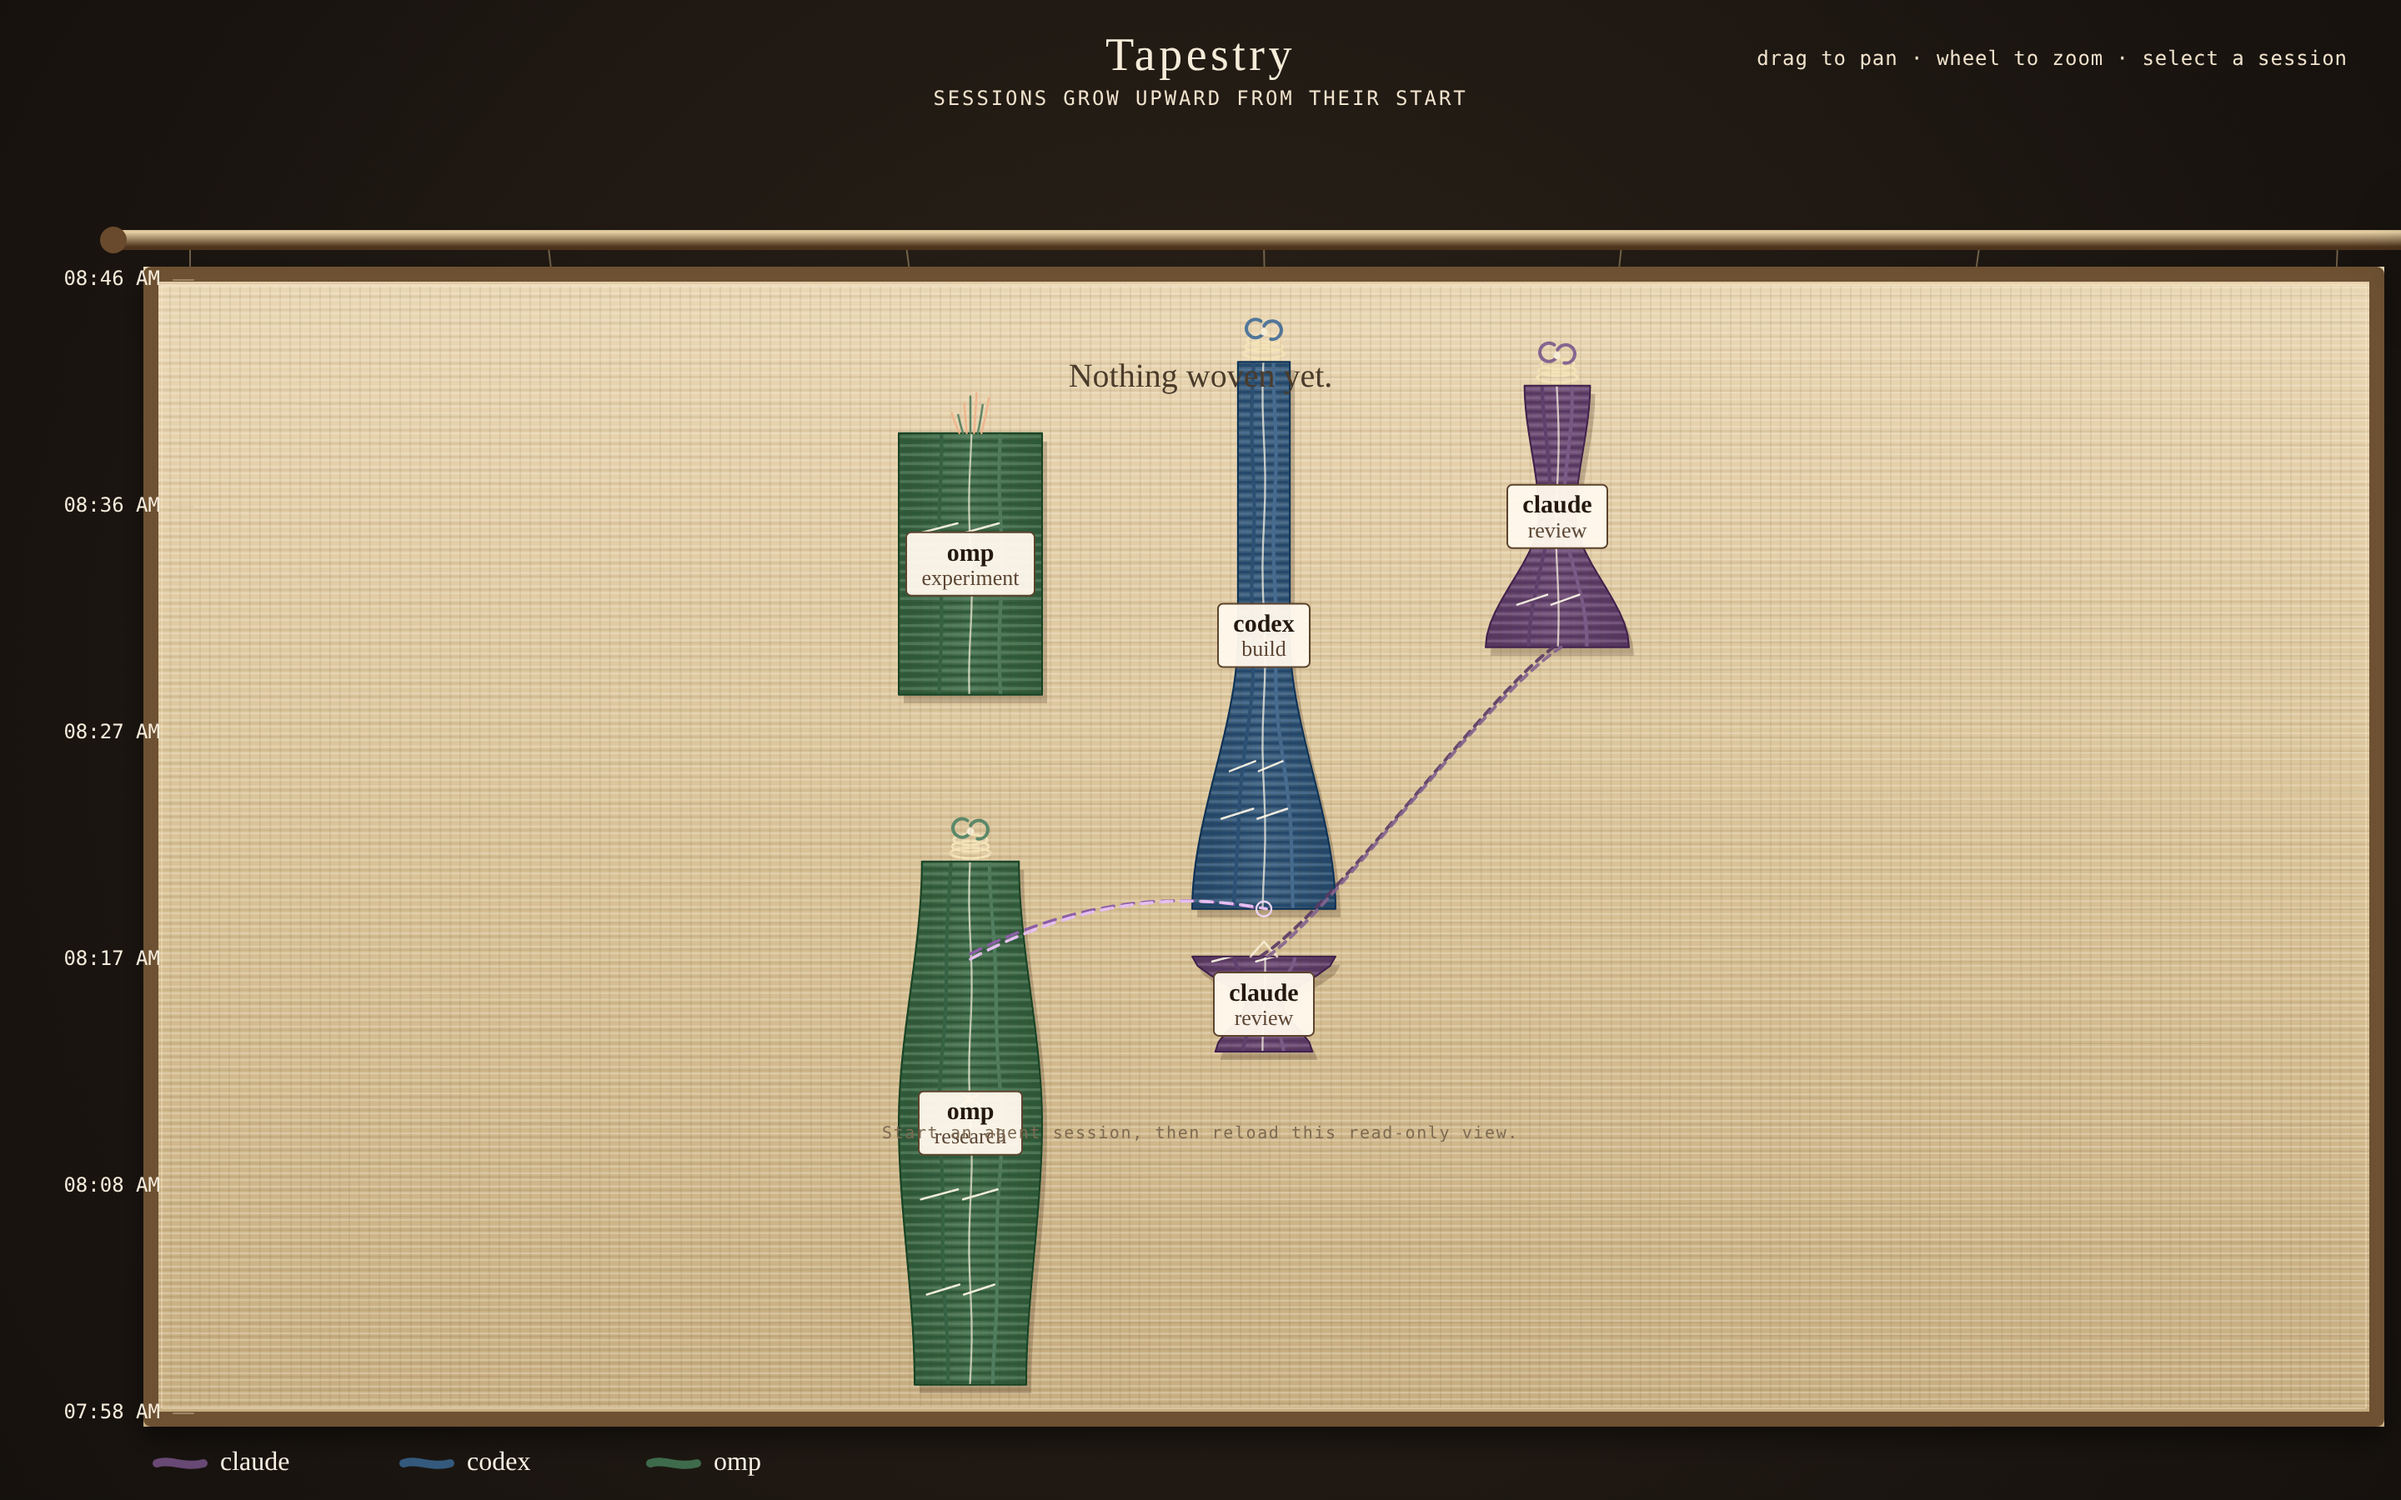
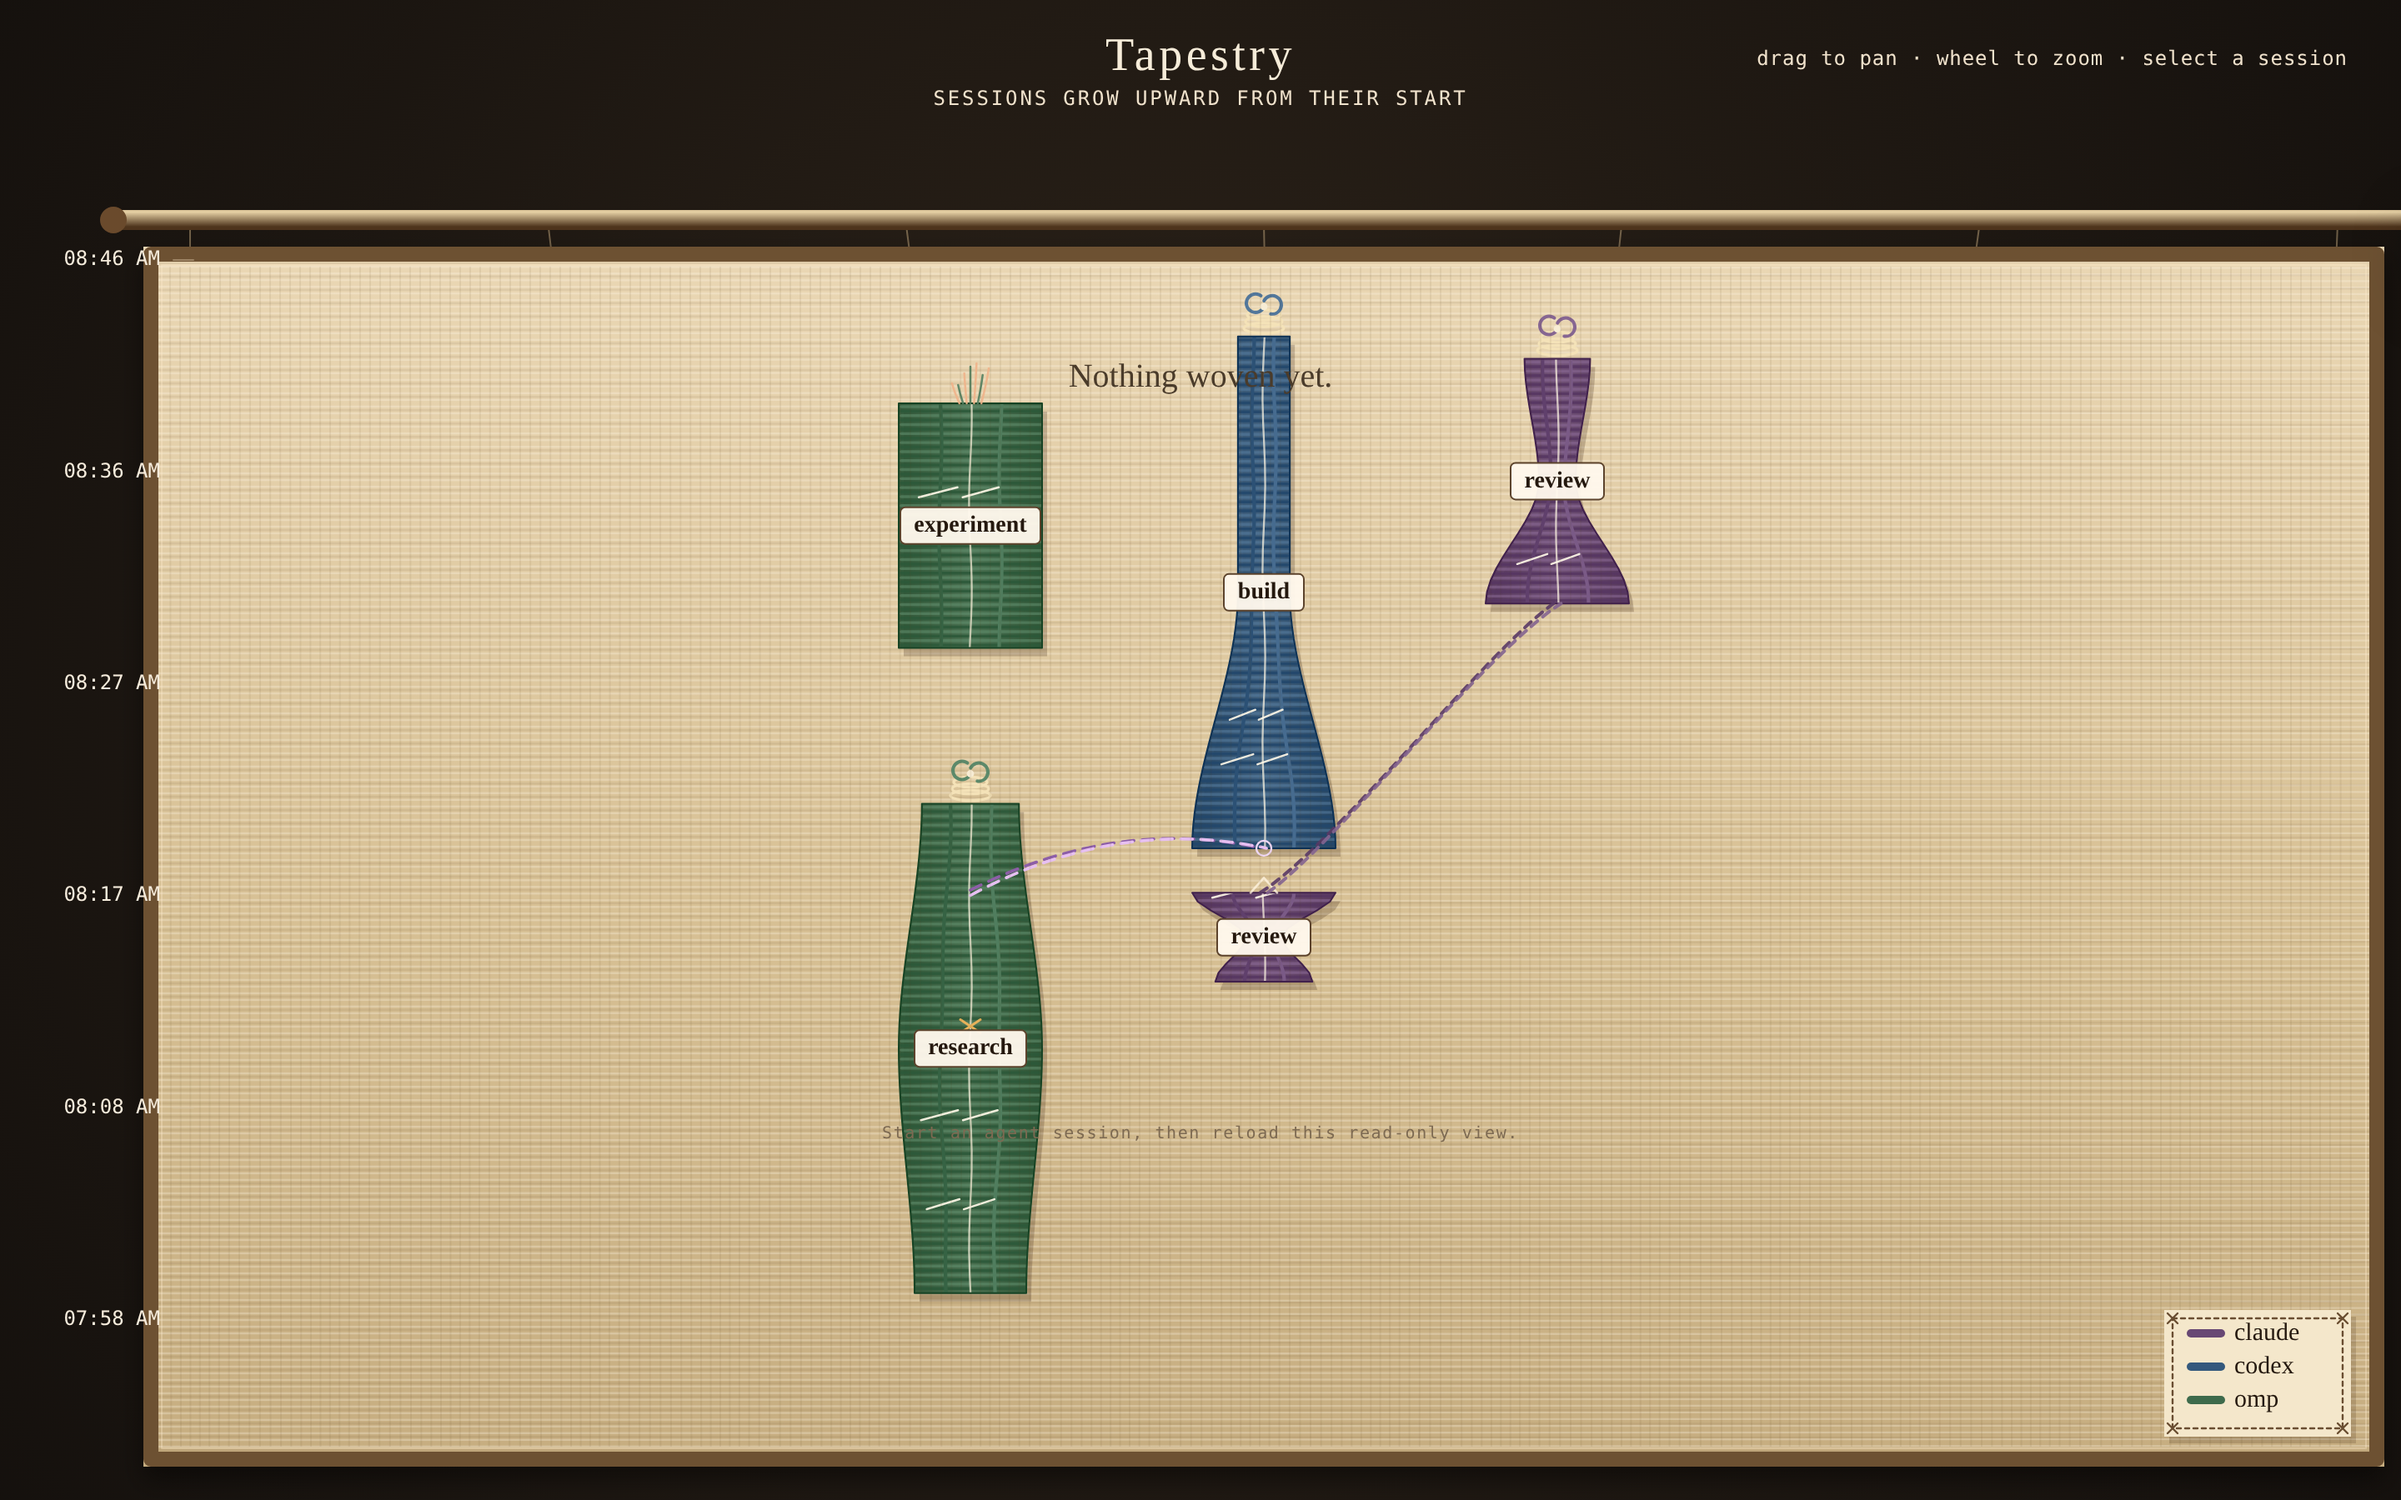
Stitch the cloth in, and sew the dye key on
Dress the warp, then throw the weft upward on load. The actor key is a
stitched patch in the lower right, and session cards no longer repeat it.

diff --git a/tapestry/weave.js b/tapestry/weave.js
@@ -3,7 +3,7 @@ const ctx = canvas.getContext("2d");
 const panel = document.querySelector("#panel");
 const empty = document.querySelector("#empty");
 const DYES = ["#3e6b4c", "#34597d", "#8d4630", "#684874", "#9a7430", "#2e5c58", "#7a3d4a"];
-const state = { spec: null, sessions: [], scale: 1, panX: 0, panY: 0, drag: null, selected: null, layout: [] };
+const state = { spec: null, sessions: [], scale: 1, panX: 0, panY: 0, drag: null, selected: null, layout: [], reveal: 1, needle: null };
 
 const hash = (value) => {
   let h = 2166136261;
@@ -50,8 +50,8 @@ function fit() {
 }
 
 function field() {
-  const top = 168;
-  const bottom = 52;
+  const top = 156;
+  const bottom = 108;
   return {
     left: 132,
     right: 56,
@@ -121,7 +121,7 @@ function trace(points) {
 }
 
 function clothRect(frame) {
-  return { x: frame.left - 46, y: frame.top - 8, w: frame.width + 92, h: frame.height + 16 };
+  return { x: frame.left - 46, y: frame.top - 8, w: frame.width + 92, h: frame.height + 96 };
 }
 
 function roundRect(x, y, w, h, r) {
@@ -209,9 +209,10 @@ function drawHanging(rect) {
 }
 
 function drawWarp(rect) {
+  const grown = state.reveal >= 1 ? 1 : Math.min(1, state.reveal / 0.18);
   ctx.save();
   ctx.beginPath();
-  ctx.rect(rect.x + 12, rect.y + 12, rect.w - 24, rect.h - 24);
+  ctx.rect(rect.x + 12, rect.y + 12, rect.w - 24, (rect.h - 24) * grown);
   ctx.clip();
   ctx.lineWidth = 1;
   for (let x = rect.x + 16; x < rect.x + rect.w - 14; x += 6) {
@@ -239,6 +240,16 @@ function sessionMarks(session) {
 function drawUpright(session, frame) {
   const p = position(session, frame);
   const widths = widthsOf(session);
+  const top = Math.min(p.y0, p.y1);
+  const bot = Math.max(p.y0, p.y1);
+  if (state.needle != null && state.needle > bot + 1) return;
+  const partial = state.needle != null && state.needle > top;
+  ctx.save();
+  if (partial) {
+    ctx.beginPath();
+    ctx.rect(0, state.needle, innerWidth, Math.max(0, innerHeight - state.needle));
+    ctx.clip();
+  }
   const points = silhouette(p.x, p.y0, p.y1, widths);
   const color = dye(session.actor);
   const selected = state.selected?.id === session.id;
@@ -253,8 +264,6 @@ function drawUpright(session, frame) {
   ctx.save();
   trace(points);
   ctx.clip();
-  const top = Math.min(p.y0, p.y1);
-  const bot = Math.max(p.y0, p.y1);
   const ground = ctx.createLinearGradient(p.x - 40, 0, p.x + 40, 0);
   ground.addColorStop(0, shade(color, -28));
   ground.addColorStop(0.5, color);
@@ -330,8 +339,9 @@ function drawUpright(session, frame) {
   ctx.lineWidth = selected ? 2.2 : 1;
   ctx.stroke();
 
-  drawCap(session, p, color);
+  if (!partial) drawCap(session, p, color);
   state.layout.push({ s: session, p, widths, width: Math.max(...widths) });
+  ctx.restore();
 }
 
 function drawCap(session, p, color) {
@@ -430,17 +440,15 @@ function drawNameplates() {
   ctx.save();
   ctx.textAlign = "center";
   ctx.textBaseline = "middle";
+  ctx.font = "600 14px Palatino, Georgia, serif";
   for (const row of state.layout) {
-    const actor = String(row.s.actor);
+    const mid = (row.p.y0 + row.p.y1) / 2;
+    if (!woven(mid)) continue;
     const sid = String(row.s.sessionId);
-    ctx.font = "600 15px Palatino, Georgia, serif";
-    const actorW = ctx.measureText(actor).width;
-    ctx.font = "13px Palatino, Georgia, serif";
-    const sidW = ctx.measureText(sid).width;
-    const w = Math.ceil(Math.max(actorW, sidW) + 18);
-    const h = 38;
+    const w = Math.ceil(ctx.measureText(sid).width + 16);
+    const h = 22;
     const x = row.p.x - w / 2;
-    const y = (row.p.y0 + row.p.y1) / 2 - h / 2;
+    const y = mid - h / 2;
     ctx.fillStyle = "rgba(255, 248, 236, 0.96)";
     ctx.strokeStyle = "#5c432c";
     ctx.lineWidth = 1;
@@ -448,13 +456,22 @@ function drawNameplates() {
     ctx.fill();
     ctx.stroke();
     ctx.fillStyle = "#24180e";
-    ctx.font = "600 15px Palatino, Georgia, serif";
-    ctx.fillText(actor, row.p.x, y + 13);
-    ctx.fillStyle = "#5c4634";
-    ctx.font = "13px Palatino, Georgia, serif";
-    ctx.fillText(sid, row.p.x, y + 28);
+    ctx.fillText(sid, row.p.x, y + h / 2);
   }
   ctx.restore();
+}
+
+function woven(y) {
+  return state.needle == null || state.needle <= y + 0.5;
+}
+
+function stitchY(frame) {
+  if (state.reveal >= 1 || !state.domain) return null;
+  const weave = Math.max(0, (state.reveal - 0.18) / 0.82);
+  const { lo, hi } = state.domain;
+  const span = hi - lo || 1;
+  const t = lo + span * weave;
+  return frame.top + frame.height - ((t - lo) / span) * frame.height * state.scale + state.panY;
 }
 
 function drawRuler(frame) {
@@ -485,23 +502,72 @@ function drawRuler(frame) {
 function drawKey(rect) {
   const actors = state.spec?.warp || [];
   if (!actors.length) return;
-  ctx.font = "16px Palatino, Georgia, serif";
+  ctx.save();
+  ctx.font = "15px Palatino, Georgia, serif";
   ctx.textAlign = "left";
   ctx.textBaseline = "middle";
-  const y = rect.y + rect.h + 22;
+  const rowH = 20;
+  const h = 16 + actors.length * rowH;
+  let w = 112;
+  for (const actor of actors) w = Math.max(w, Math.ceil(ctx.measureText(actor.actor).width) + 54);
+  const x = rect.x + rect.w - w - 20;
+  const y = rect.y + rect.h - h - 18;
+  ctx.fillStyle = "rgba(62, 40, 18, 0.18)";
+  ctx.fillRect(x + 3, y + 4, w, h);
+  ctx.fillStyle = "#f4e7cb";
+  ctx.fillRect(x, y, w, h);
+  ctx.strokeStyle = "#6a4e32";
+  ctx.lineWidth = 1.2;
+  ctx.setLineDash([2.5, 2.5]);
+  ctx.strokeRect(x + 5, y + 5, w - 10, h - 10);
+  ctx.setLineDash([]);
+  for (const [cx, cy] of [[x + 5, y + 5], [x + w - 5, y + 5], [x + 5, y + h - 5], [x + w - 5, y + h - 5]]) {
+    ctx.beginPath();
+    ctx.moveTo(cx - 3, cy - 3);
+    ctx.lineTo(cx + 3, cy + 3);
+    ctx.moveTo(cx + 3, cy - 3);
+    ctx.lineTo(cx - 3, cy + 3);
+    ctx.stroke();
+  }
   actors.forEach((actor, i) => {
-    const x = rect.x + 8 + i * 148;
-    const color = dye(actor.actor);
-    ctx.strokeStyle = color;
+    const cy = y + 14 + i * rowH;
+    ctx.strokeStyle = dye(actor.actor);
     ctx.lineWidth = 5;
     ctx.lineCap = "round";
     ctx.beginPath();
-    ctx.moveTo(x, y);
-    ctx.bezierCurveTo(x + 8, y - 3, x + 16, y + 3, x + 28, y);
+    ctx.moveTo(x + 16, cy);
+    ctx.lineTo(x + 34, cy);
     ctx.stroke();
-    ctx.fillStyle = "#f8f1e4";
-    ctx.fillText(actor.actor, x + 38, y);
+    ctx.fillStyle = "#24180e";
+    ctx.fillText(actor.actor, x + 42, cy);
   });
+  ctx.restore();
+}
+
+function drawShuttle(frame, rect) {
+  if (state.needle == null) return;
+  const y = state.needle;
+  const trip = ((state.reveal - 0.18) / 0.82) * 6;
+  const phase = trip % 2;
+  const u = phase < 1 ? phase : 2 - phase;
+  const x = rect.x + 24 + (rect.w - 48) * u;
+  ctx.save();
+  ctx.strokeStyle = "rgba(255, 248, 230, 0.9)";
+  ctx.lineWidth = 1.6;
+  ctx.beginPath();
+  ctx.moveTo(rect.x + 16, y);
+  ctx.lineTo(rect.x + rect.w - 16, y);
+  ctx.stroke();
+  ctx.fillStyle = "#5c3b22";
+  ctx.beginPath();
+  ctx.ellipse(x, y, 16, 5.5, 0, 0, Math.PI * 2);
+  ctx.fill();
+  ctx.strokeStyle = "#f3e2bc";
+  ctx.lineWidth = 1.2;
+  ctx.beginPath();
+  ctx.ellipse(x, y, 7, 2.2, 0, 0, Math.PI * 2);
+  ctx.stroke();
+  ctx.restore();
 }
 
 function draw() {
@@ -513,15 +579,22 @@ function draw() {
   const rect = clothRect(frame);
   drawHanging(rect);
   if (!state.sessions.length) return;
+  state.needle = stitchY(frame);
   state.layout = [];
   for (const session of state.sessions) drawUpright(session, frame);
   for (const row of state.layout) {
     if (!row.s.resumed || !row.s.resumeOf) continue;
     const from = state.layout.find((other) => other.s.id === row.s.resumeOf);
-    if (from) drawSplice(from, row);
+    if (from && woven(from.p.y1) && woven(row.p.y0)) drawSplice(from, row);
   }
-  for (const handoff of state.spec?.handoffs || []) drawHandoff(handoff);
+  for (const handoff of state.spec?.handoffs || []) {
+    const from = state.layout.find((row) => row.s.sessionId === handoff.fromSession);
+    const to = state.layout.find((row) => row.s.sessionId === handoff.toSession);
+    if (!from || !to) continue;
+    if (woven(from.p.y(handoff.at)) && woven(to.p.y0)) drawHandoff(handoff);
+  }
   drawWarp(rect);
+  drawShuttle(frame, rect);
   drawNameplates();
   drawRuler(frame);
   drawKey(rect);
@@ -594,10 +667,30 @@ async function boot() {
     state.sessions = state.spec.sessions || [];
     empty.hidden = state.sessions.length > 0;
     fit();
+    const reduce = matchMedia("(prefers-reduced-motion: reduce)").matches;
+    if (!state.sessions.length || reduce) {
+      state.reveal = 1;
+      resize();
+      return;
+    }
+    state.reveal = 0;
+    state.stitchFrom = performance.now();
     resize();
+    requestAnimationFrame(stitchFrame);
   } catch {
     empty.hidden = false;
     resize();
+  }
+}
+
+function stitchFrame(now) {
+  const t = Math.min(1, (now - state.stitchFrom) / 2800);
+  state.reveal = t;
+  draw();
+  if (t < 1) requestAnimationFrame(stitchFrame);
+  else {
+    state.reveal = 1;
+    draw();
   }
 }
 

diff --git a/docs/tapestry-runtime.md b/docs/tapestry-runtime.md
@@ -51,6 +51,8 @@ ids, and the session inspector remains backed by the sealed records.
 ## Interaction
 
 - Drag pans; wheel zooms.
+- On load the warp is dressed, then a shuttle throws the weft upward from the start of the record. `prefers-reduced-motion` skips that.
+- Actor dye is a stitched patch in the lower right. Session cards name the session only.
 - Select an upright to inspect actor, session, time range, event count, tools,
   approvals, and outcome.
 - Resume splices and handoff cords persist as session context.
